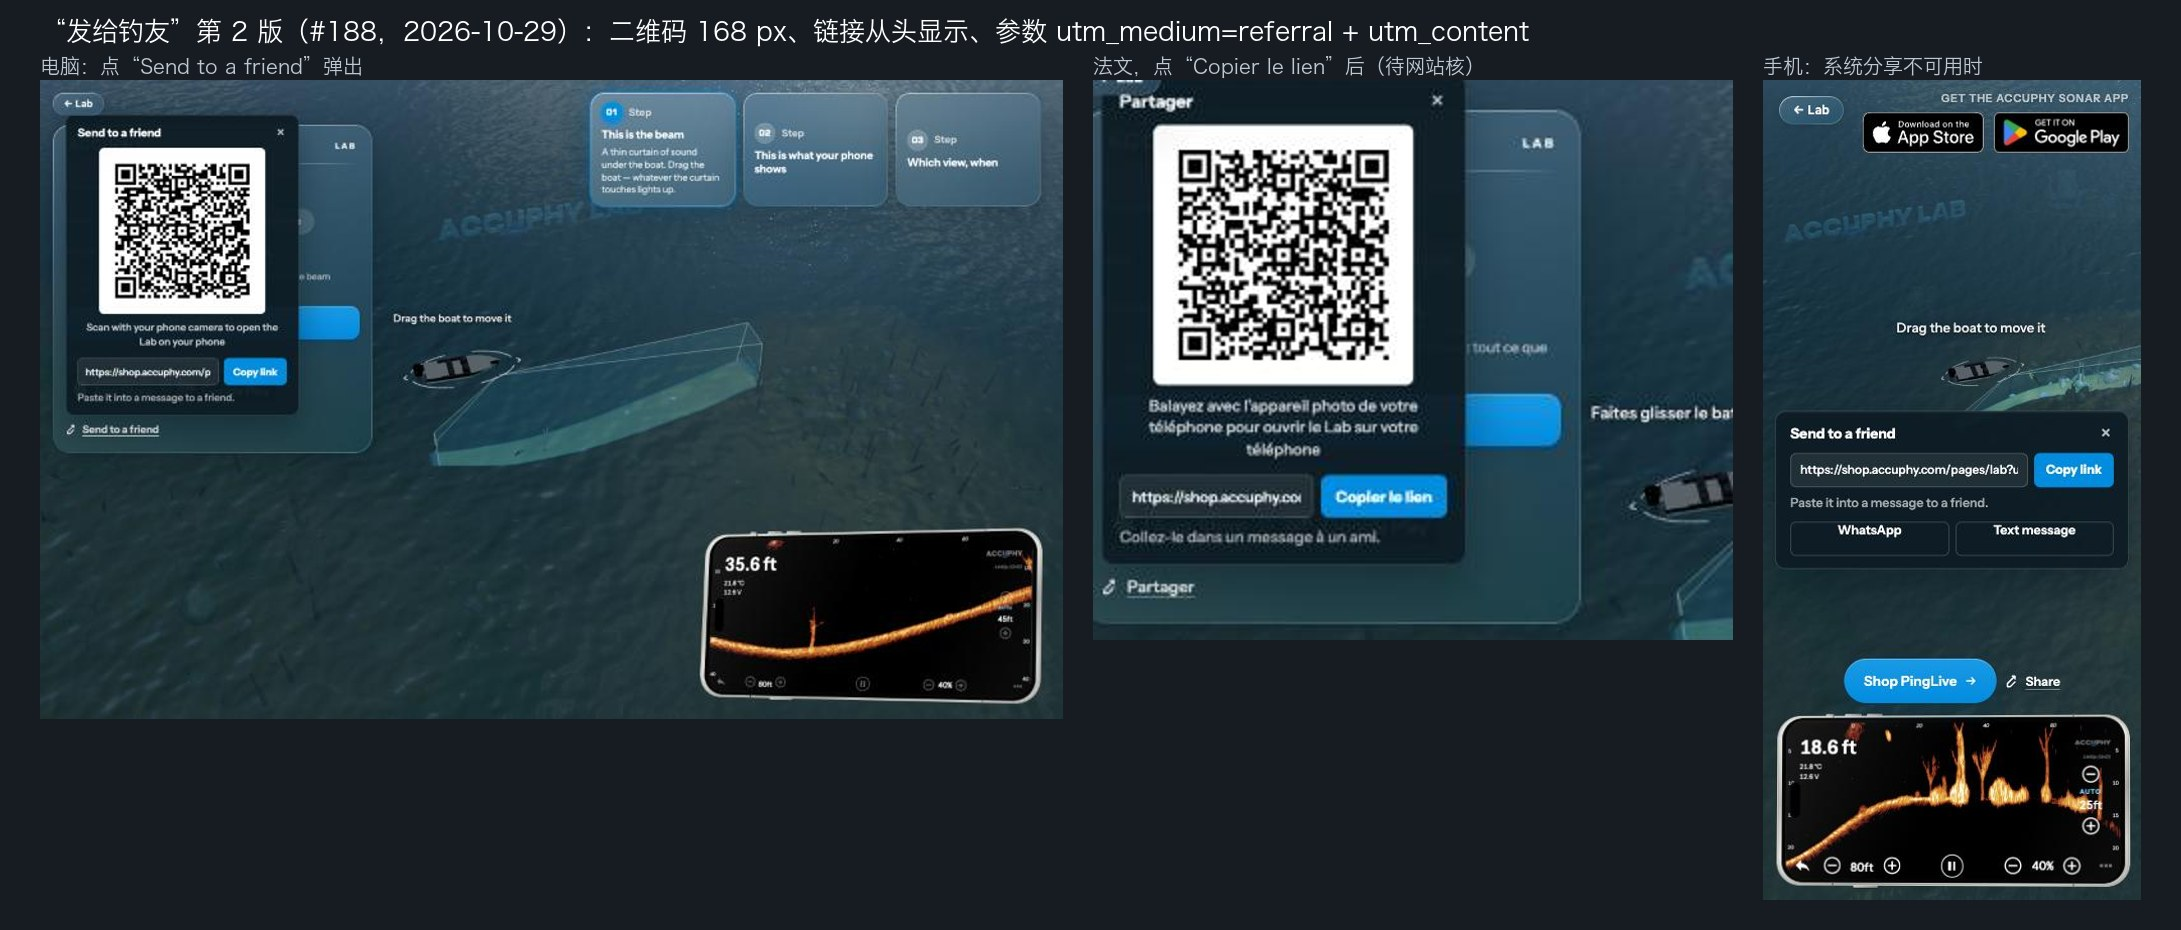
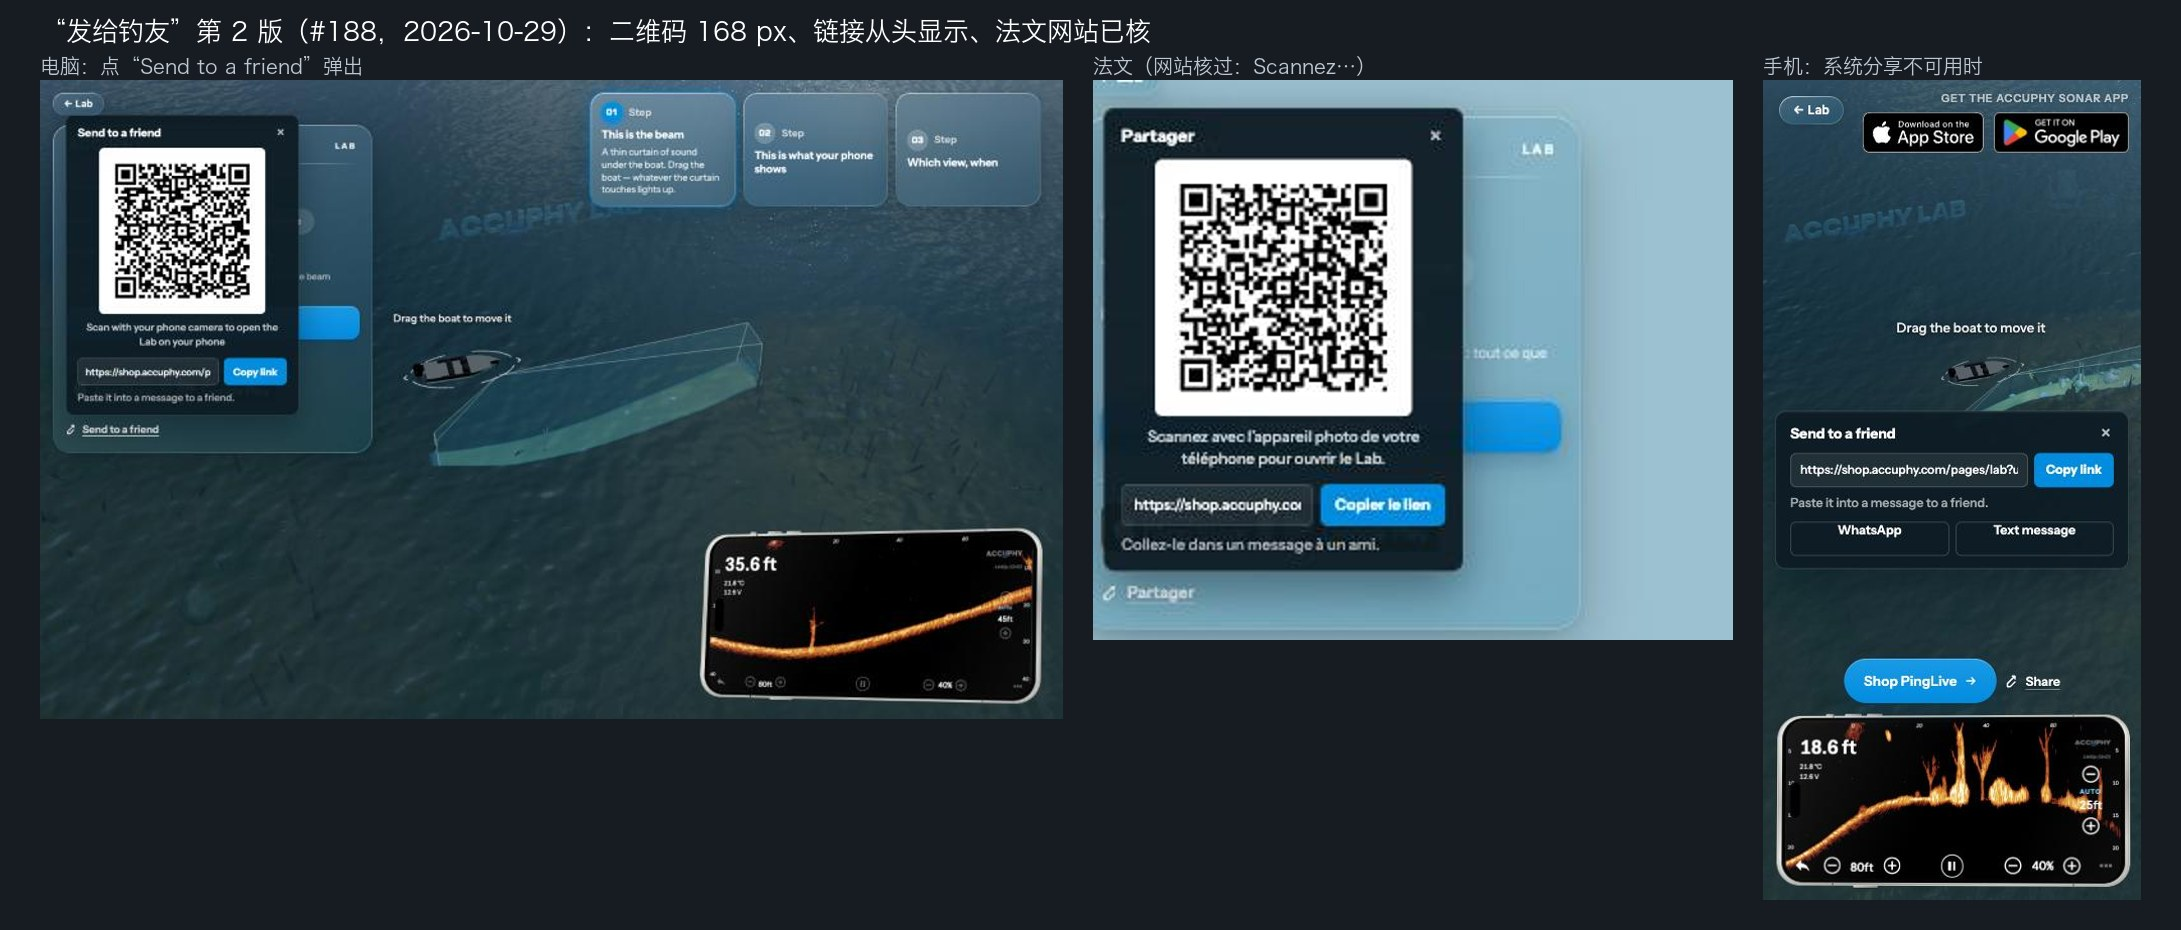
Share popover French as reviewed by the website (#198): Scannez avec l’appareil photo…; sheet updated (#188)

Changed region(s): [[0.4365, 0.0, 0.8106, 0.686]]

diff --git a/src/experiments/2026-09-23-sonar-lake-3d/i18n.js b/src/experiments/2026-09-23-sonar-lake-3d/i18n.js
@@ -57,11 +57,11 @@ const S = {
   share_sms: { en: 'Text message', fr: 'Message texte' },
   share_copy: { en: 'Copy link', fr: 'Copier le lien' },
   share_copied: { en: 'Link copied', fr: 'Lien copié' },
-  share_qr_caption: { en: 'Scan with your phone camera to open the Lab on your phone', fr: 'Balayez avec l’appareil photo de votre téléphone pour ouvrir le Lab sur votre téléphone' }, // #188 — FR FOR THE WEBSITE HQ'S REVIEW (#198)
+  share_qr_caption: { en: 'Scan with your phone camera to open the Lab on your phone', fr: 'Scannez avec l’appareil photo de votre téléphone pour ouvrir le Lab.' }, // #188; FR reviewed by the website HQ 2026-10-29 (#198)
   share_link_label: { en: 'Link', fr: 'Lien' },
-  share_copy_hint: { en: 'Paste it into a message to a friend.', fr: 'Collez-le dans un message à un ami.' }, // FR FOR REVIEW
-  share_copied_check: { en: 'Copied ✓', fr: 'Copié ✓' }, // FR FOR REVIEW
-  share_press_copy: { en: 'Press {keys} to copy', fr: 'Appuyez sur {keys} pour copier' }, // when neither clipboard path is allowed; FR FOR REVIEW
+  share_copy_hint: { en: 'Paste it into a message to a friend.', fr: 'Collez-le dans un message à un ami.' }, // FR reviewed (#198)
+  share_copied_check: { en: 'Copied ✓', fr: 'Copié ✓' }, // FR reviewed (#198)
+  share_press_copy: { en: 'Press {keys} to copy', fr: 'Appuyez sur {keys} pour copier' }, // when neither clipboard path is allowed; FR reviewed (#198)
   share_close: { en: 'Close', fr: 'Fermer' },
   share_short: { en: 'Share', fr: 'Partager' }, // the phone dock beside the Shop pill: no room for the long label (FR passes, #198)
   get_app: { en: 'Get the Accuphy Sonar app', fr: 'Télécharger l’application Accuphy Sonar' }, // the caption over the store badges (Jason 2026-10-28; the badges themselves say "Download on the App Store" / "Get it on Google Play"). FR reviewed by the website HQ 2026-10-28 (#198): the infinitive, as the store's /fr footer

diff --git a/docs/decisions.md b/docs/decisions.md
@@ -3283,3 +3283,6 @@ Numbered log. Newest at the bottom.
        field keeps the start of the address in view when selected (scrollLeft reset) and the popover focuses × on open; the
        test decodes every market's QR at 3, 2 and 1 px per module. Tags per the website / Klaviyo HQ: utm_medium=referral,
        utm_content = channel, market = the bridge's country code. 15/15. Sheet redone.
+     - The website's French review (#198, 2026-10-29): `share_qr_caption` = "Scannez avec l’appareil photo de votre téléphone pour
+       ouvrir le Lab."; the other five pass as drafted (Collez-le dans un message à un ami. / Copié ✓ / Appuyez sur {keys} pour
+       copier / Lien / Fermer). Marks removed.
